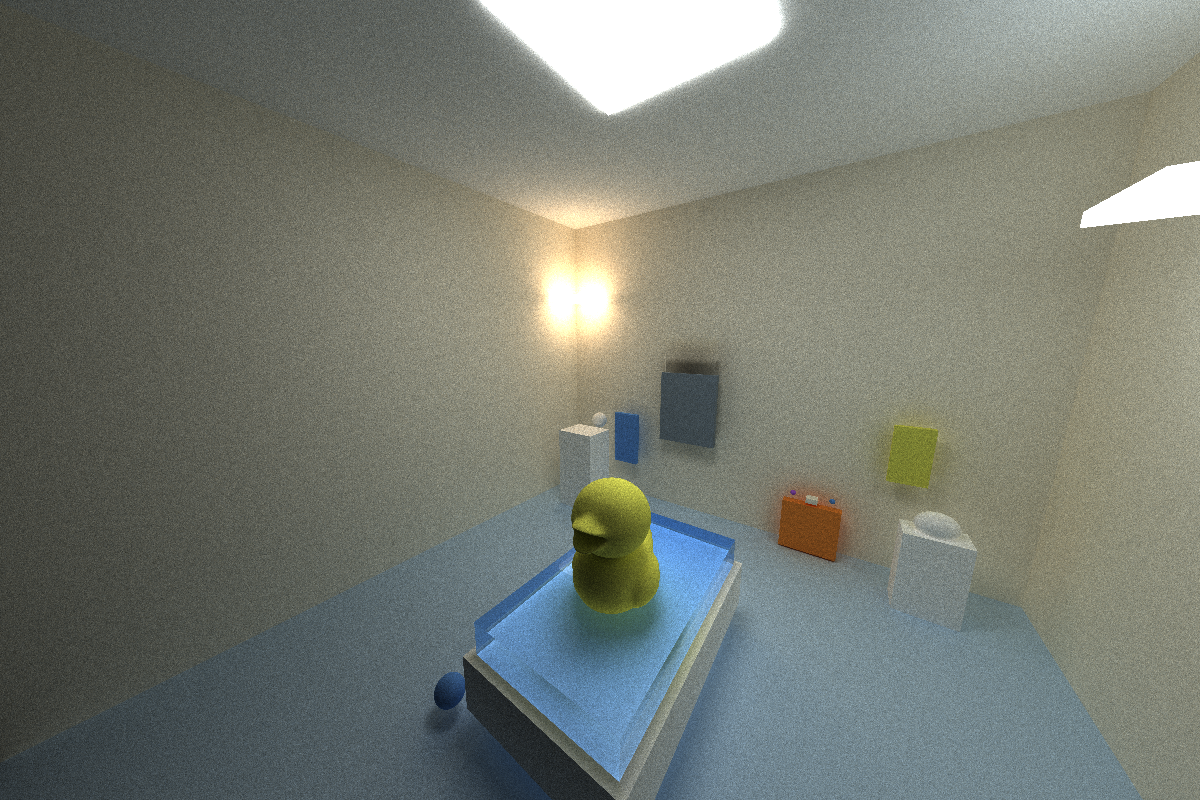
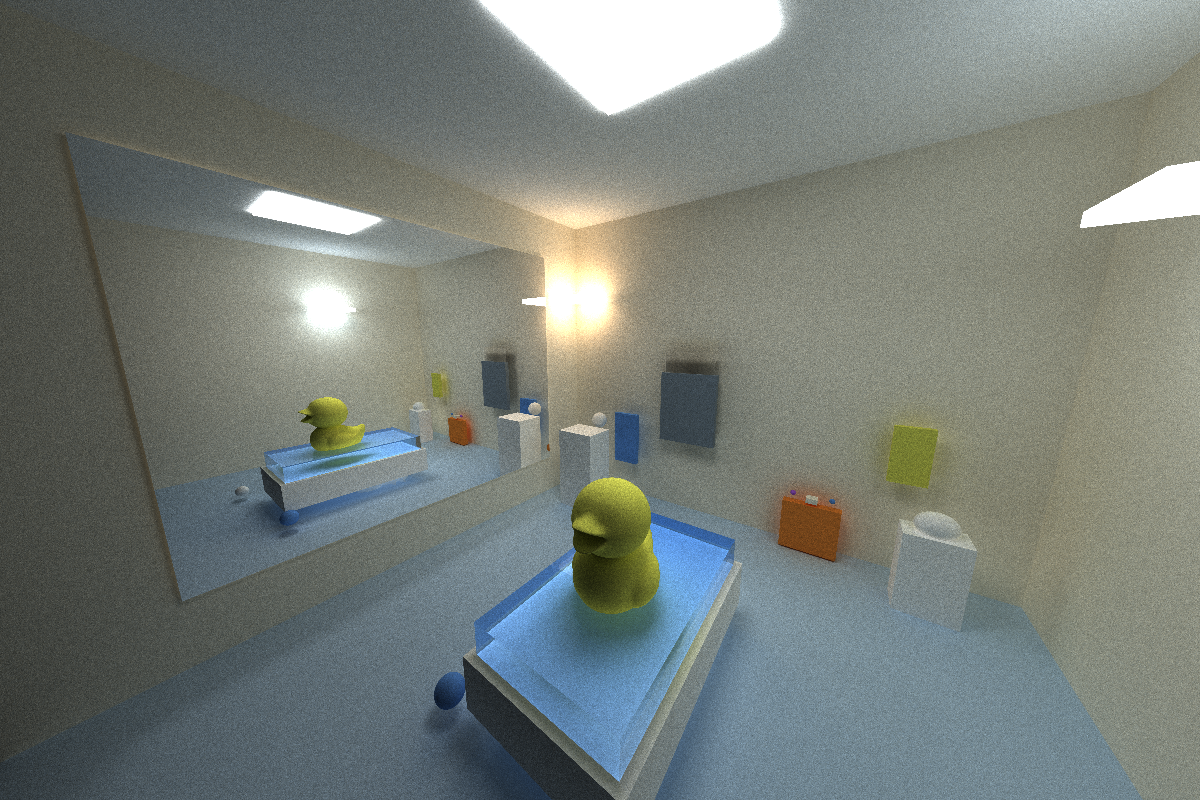
fixed issue with pure specular

diff --git a/README.md b/README.md
@@ -23,26 +23,50 @@ This path tracer supports:
 
 RESULTS
 ================
-Bathtub Scene
+### Bathtub Scene
 ![Bathtub](img/bath1.png)
-![Bathtub](img/bath2.png)
+![Bathtub2](img/bath2.png)
 
-Geometry Scenes
-![Bathtub](img/medium.png)
-![Bathtub](img/medium2.png)
+### Geometry Scenes
+![med1](img/medium.png)
+![med2](img/medium2.png)
 
 IMPLEMENTATION
 ================
 
 ### Light Transport
+![renderEQ](img/equation.png)
+Path tracing is based on the rendering equation shown above. This equation describes how light realistically interacts with objects. At any point on a surface, the light leaving that point (Lo) is determined by the right-hand side of the equation. If the surface is a light source, we add the color of the light it emits (Le).
 
+To handle incoming light, we consider the entire hemisphere around the surface normal. This represents all directions from which light can arrive at the point. We integrate over this hemisphere to accumulate the total light entering the point. Inside this integral, the incoming light (Li) is multiplied by two terms. The first is the Bidirectional Reflectance Distribution Function (BRDF, f), which is specific to the material of the surface. For example, a diffuse surface scatters light broadly in the hemisphere, while a specular surface reflects light more narrowly. The second is the geometry term, which accounts for the angle between the incoming light and the surface normal.
+
+Since it is impossible to evaluate this integral exactly, we rely on Monte Carlo integration. Rather than summing over every direction, we take a limited number of random samples from the hemisphere. Each sample estimates the contribution of incoming light in its direction, weighted by the BRDF and geometry term. By averaging these random samples, we build an unbiased estimate of the true integral. Increasing the number of samples reduces noise and makes the estimate converge toward the correct solution.
 ### Bidirectional Scattering Distribution Function
+This path tracer implements three different BSDFs:
+1. Diffuse
+2. Specular
+3. Refraction
+
+The implementations are influenced by Physically Based Rendering: From Theory to Implementation and Professor Adam Mally’s CIS561 course slides.
+
+Diffuse:
+The diffuse material samples a random direction in the hemisphere around the surface normal to scatter incoming light. This produces the characteristic rough, evenly colored appearance of matte surfaces, as shown in the results below.
+![spec](img/diffuse.png)
+
+Specular:
+The specular case reflects light perfectly about the normal, producing mirror-like reflections.
+![spec](img/specular.png)
+
+Refraction:
+Refraction allows light to pass through transparent objects, bending according to the object’s index of refraction. To simulate real glass, the implementation randomly chooses whether a ray is reflected (specular) or transmitted (refractive) based on Fresnel terms. This produces the combined reflective and transmissive behavior of glass. Attenuation within the medium is modeled using the Beer–Lambert Law. It also produces a caustic effect where the light exiting the other side of the sphere coalesces, creating a bright spot on the surface in the path of the outgoing rays. This is shown below.
+![spec](img/glass.png)
+![spec](img/caustics.png)
 
 ### Intersections
 
 ### GLTF Mesh loading
 
-## Bounding Volume Heirarchy 
+### Bounding Volume Heirarchy 
 
 ### Stochastic Sampled Antialiasing
 
@@ -53,5 +77,7 @@ IMPLEMENTATION
 REFERENCES
 ================
 University of Pennsylvania CIS 560 and CIS 561 Slides by Adam Mally
+
 University of Pennsylvania CIS 565 Path Tracing Slides by Ruipeng Wang
+
 Physically Based Rendering: From Theory To Implementation (PBRTv4) by Matt Pharr, Wenzel Jakob, and Greg Humphreys
